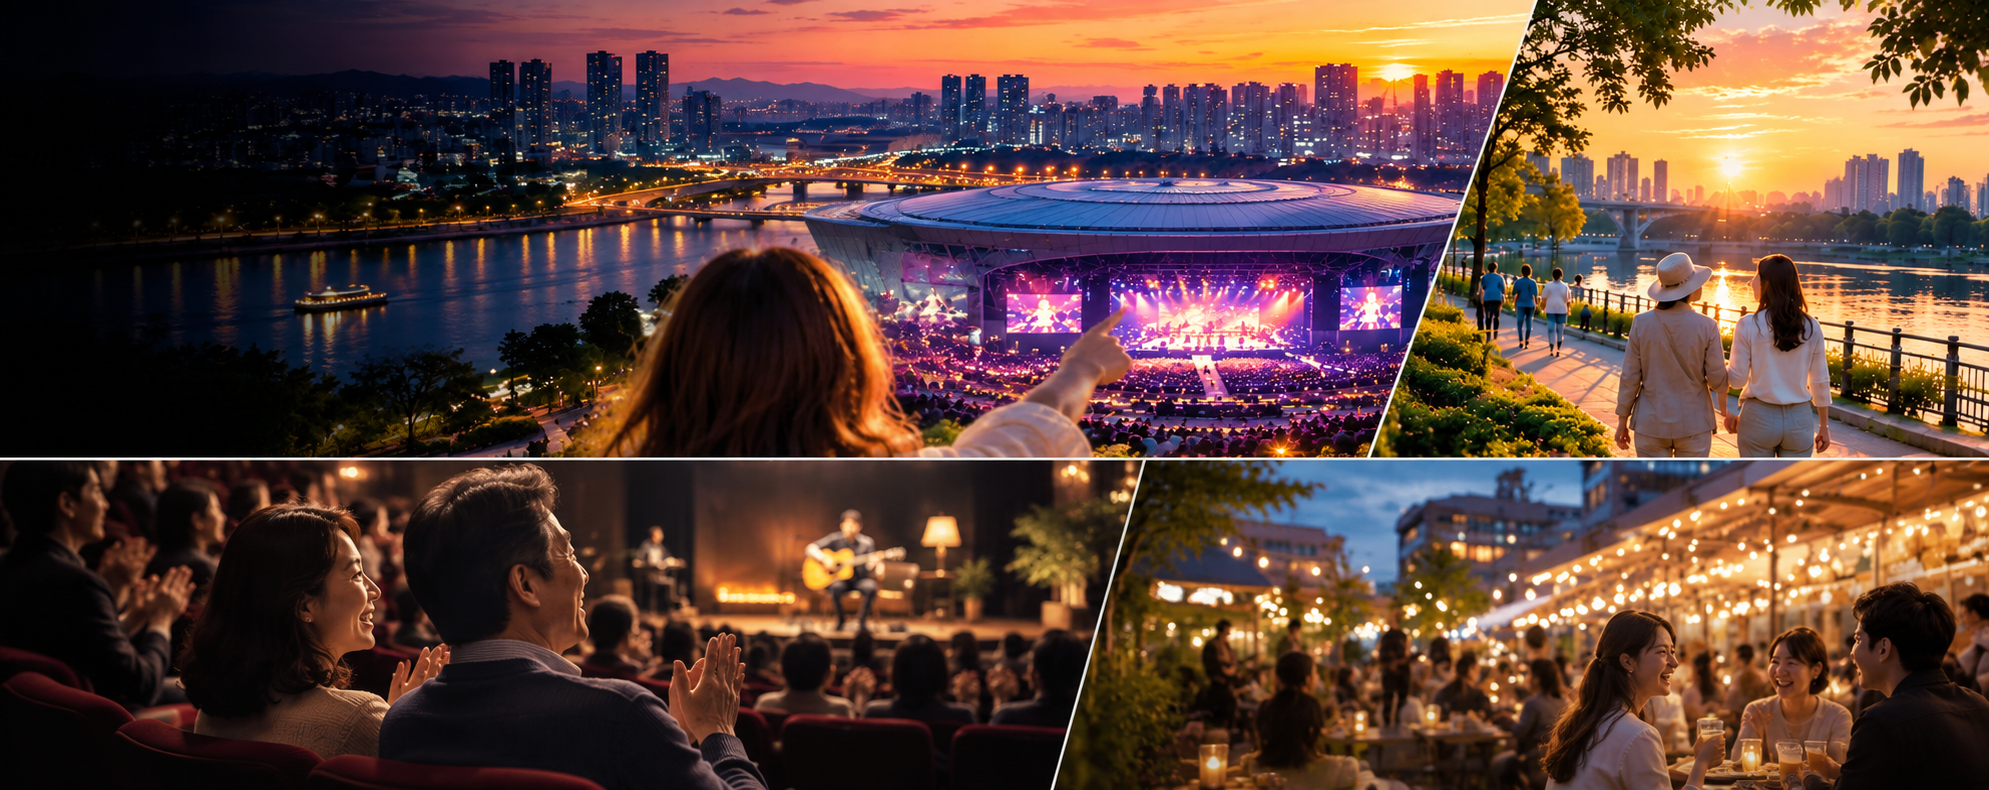
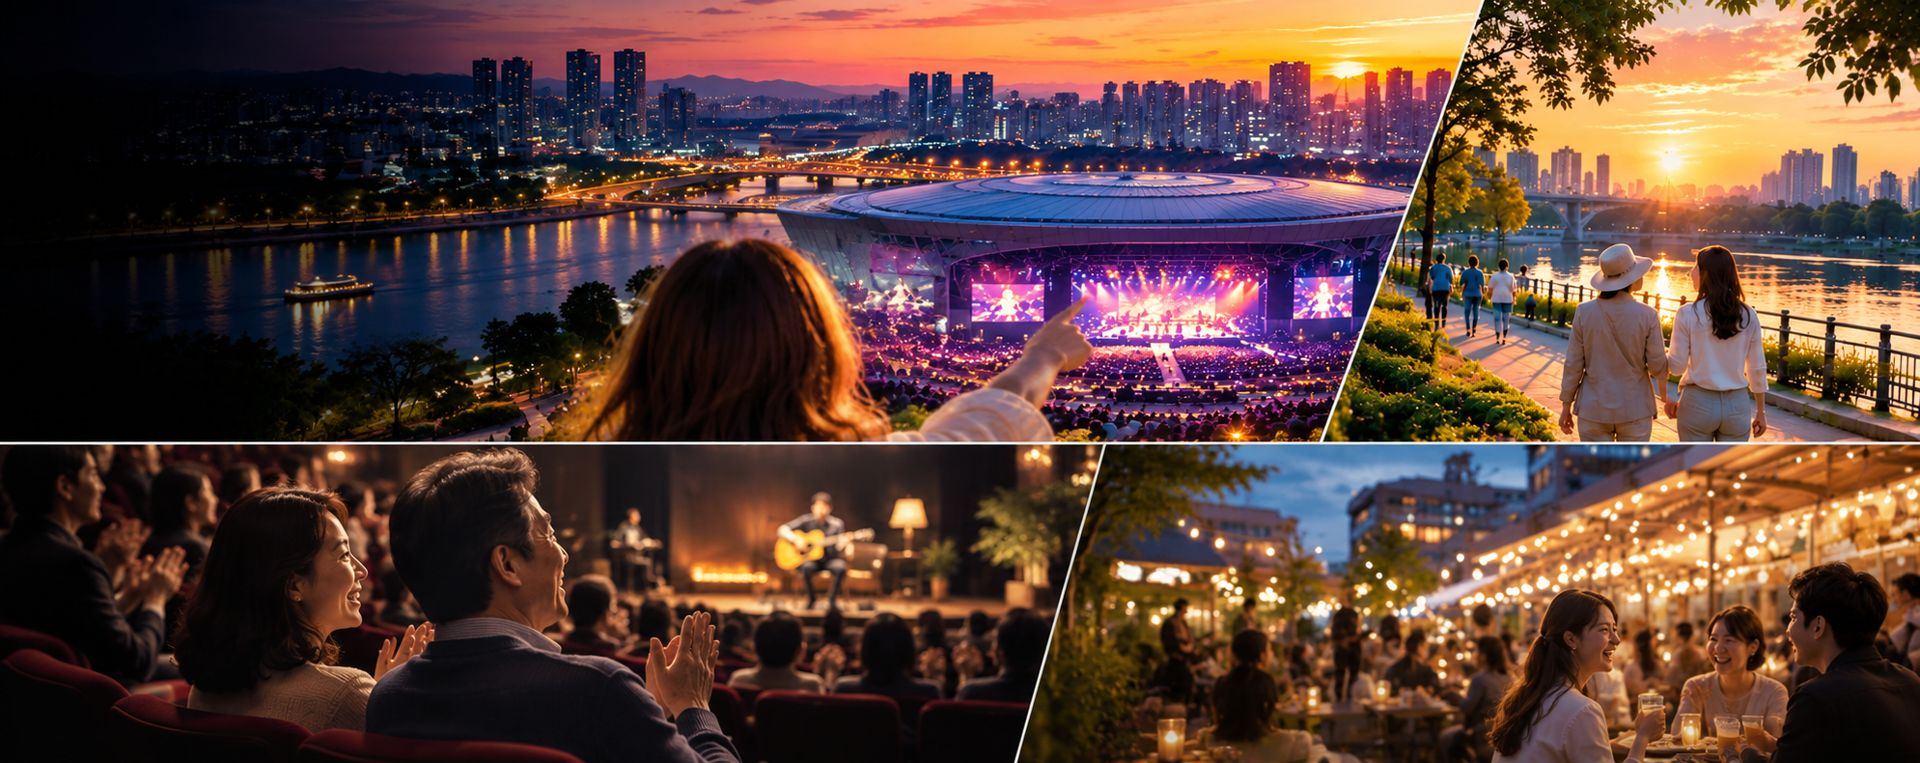
Add files via upload

diff --git a/parents/index.html b/parents/index.html
@@ -88,12 +88,13 @@ h1,.lede,.section-head h2,.section-head p,.program p,.problem-card p,.partner-bo
 .sf-qr{display:none;flex-direction:column;align-items:center;gap:4px;font-size:10px;color:var(--faint)}
 .sf-qr-img{width:72px;height:72px;padding:4px;background:#fff;border-radius:8px;line-height:0}.sf-qr-img img,.sf-qr-img canvas{width:64px!important;height:64px!important}
 @media(min-width:821px){.sf-qr:not([hidden]){display:flex}}
+.hero-bg{position:absolute;inset:0;z-index:0}.hero-bg img{width:100%;height:100%;object-fit:cover;object-position:60% 40%}.hero-bg:after{content:"";position:absolute;inset:0;background:linear-gradient(90deg,rgba(10,10,8,.88) 0%,rgba(10,10,8,.55) 50%,rgba(10,10,8,.15) 100%),linear-gradient(180deg,rgba(10,10,8,.15),rgba(10,10,8,.7))}
 </style>
 </head>
 <body>
 <nav><div class="navrow"><a class="brand" href="/" aria-label="SHOWDAY 메인으로 이동"><span class="display">SHOWDAY</span><small>공연 가는 날, 필요한 모든 것</small></a><div class="nav-links"><a href="/#journey">서비스 소개</a><a href="/50plus/">50+ 공연</a><a class="active" href="#top">부모를 위한 공연</a><a href="/live/">쇼데이 라이브</a><a href="#partner">파트너 안내</a></div><a class="btn btn-amber btn-sm nav-cta" href="/#partner-contact">제휴·사업 문의 ›</a></div></nav>
 <main id="top">
-<section class="hero"><div class="wrap hero-grid"><div><div class="kicker">PARENTS TIME · COMPANION EXPERIENCE</div><h1>아이의 공연 시간,<br><span>부모의 시간도<br>소중하니까.</span></h1><p class="lede">자녀의 공연에 함께 왔지만 관람하지 않는 부모와 보호자. SHOWDAY는 무조건 긴 프로그램을 만드는 대신, 실제 대기 수요에 맞춰 휴식·지역 체류·짧은 문화 프로그램을 선택할 수 있는 시간을 제안합니다.</p><div class="hero-ctas"><a class="btn btn-amber" href="#program">부모 시간 보기 ›</a><a class="btn btn-line" href="#timeline">운영 방식 보기</a></div></div><div class="stage-card"><div class="stage-top">TODAY · PARENTS TIME</div><h3>공연을 기다리는 방법도,<br>한 가지일 필요는 없습니다.</h3><div class="stage-time"><b>OPTION 01</b><span>편안하게 쉬는 Companion Lounge</span></div><div class="stage-time"><b>OPTION 02</b><span>카페 · 식사 · 지역 명소 이용</span></div><div class="stage-time"><b>OPTION 03</b><span>30~60분 소규모 문화 프로그램</span></div><div class="stage-time"><b>OPTION 04</b><span>공연 종료 전 다시 만날 장소 안내</span></div><div class="stage-note">공연별 동행자 수요를 먼저 확인하고, 필요한 서비스부터 작게 운영합니다.</div></div></div></section>
+<section class="hero"><div class="hero-bg"><img src="/assets/hero-parents.jpg" alt="" loading="eager" onerror="this.parentNode.style.display='none'"></div><div class="wrap hero-grid"><div><div class="kicker">PARENTS TIME · COMPANION EXPERIENCE</div><h1>아이의 공연 시간,<br><span>부모의 시간도<br>소중하니까.</span></h1><p class="lede">자녀의 공연에 함께 왔지만 관람하지 않는 부모와 보호자. SHOWDAY는 무조건 긴 프로그램을 만드는 대신, 실제 대기 수요에 맞춰 휴식·지역 체류·짧은 문화 프로그램을 선택할 수 있는 시간을 제안합니다.</p><div class="hero-ctas"><a class="btn btn-amber" href="#program">부모 시간 보기 ›</a><a class="btn btn-line" href="#timeline">운영 방식 보기</a></div></div><div class="stage-card"><div class="stage-top">TODAY · PARENTS TIME</div><h3>공연을 기다리는 방법도,<br>한 가지일 필요는 없습니다.</h3><div class="stage-time"><b>OPTION 01</b><span>편안하게 쉬는 Companion Lounge</span></div><div class="stage-time"><b>OPTION 02</b><span>카페 · 식사 · 지역 명소 이용</span></div><div class="stage-time"><b>OPTION 03</b><span>30~60분 소규모 문화 프로그램</span></div><div class="stage-time"><b>OPTION 04</b><span>공연 종료 전 다시 만날 장소 안내</span></div><div class="stage-note">공연별 동행자 수요를 먼저 확인하고, 필요한 서비스부터 작게 운영합니다.</div></div></div></section>
 <section class="problem"><div class="wrap"><div class="section-head"><div class="eyebrow">WHY SHOWDAY</div><h2>공연장 밖의 동행자도, 공연 생태계의 고객입니다.</h2><p>모든 공연에 부모 수요가 있는 것은 아닙니다. 그래서 SHOWDAY는 청소년·가족 동반 비중이 높은 공연부터 수요를 확인하고 필요한 서비스만 연결합니다.</p></div><div class="problem-grid"><div class="problem-card"><b>지금 · 각자 알아서 기다리는 시간</b><p>공연장 주변 카페를 찾거나 차량에서 기다리고, 종료시간에 맞춰 다시 만나는 장소를 따로 정해야 합니다.</p></div><div class="problem-card solution"><b>SHOWDAY · 선택할 수 있는 부모 시간</b><p>휴식, 식사, 지역 체류, 짧은 문화 프로그램 가운데 필요한 것을 선택하고 공연 종료에 맞춰 자연스럽게 다시 합류합니다.</p></div></div></div></section>
 <section id="program"><div class="wrap"><div class="section-head"><div class="eyebrow">PARENTS TIME</div><h2>부모를 위한 시간은 ‘공연 하나 더’가 아닙니다.</h2><p>대형 공연과 경쟁하는 별도 공연이 아니라, 동행 부모가 실제로 필요로 하는 대기·휴식·지역 체류 서비스를 중심으로 구성합니다.</p></div><div class="program-grid"><article class="program"><div class="num">01</div><h3>COMPANION LOUNGE</h3><p>앉아서 쉬고 충전하며 공연 종료까지 편하게 머물 수 있는 동행자 휴식 공간.</p></article><article class="program"><div class="num">02</div><h3>LOCAL TIME</h3><p>공연장 주변 카페·식사·산책·지역 명소를 대기시간에 맞춰 추천하는 지역 체류 프로그램.</p></article><article class="program"><div class="num">03</div><h3>OPTIONAL PROGRAM</h3><p>공연마다 프로그램을 미리 만들지 않습니다. 부모·보호자의 동행 규모와 관심사를 먼저 확인하고, 수요가 충분할 때 지역의 기존 프로그램·제휴 콘텐츠를 우선 연결합니다. 필요한 경우에만 30~60분 규모의 SHOWDAY 전용 프로그램을 별도로 기획합니다.</p></article><article class="program"><div class="num">04</div><h3>MEET AGAIN</h3><p>공연 종료 예정시간과 혼잡을 고려해 가족이 다시 만날 시간과 장소, 귀가 동선을 안내합니다.</p></article></div></div></section>
 <section class="timeline" id="timeline"><div class="wrap"><div class="section-head"><div class="eyebrow">HOW IT WORKS</div><h2>프로그램을 먼저 만들지 않고, 필요한 시간을 먼저 연결합니다.</h2><p>PARENTS TIME은 프로그램 운영 자체가 목적이 아닙니다. 공연을 보는 사람과 기다리는 사람의 시간을 함께 설계하고, 기존 지역 서비스부터 연결한 뒤 실제 수요가 확인될 때만 선택형 프로그램을 엽니다.</p></div><div class="time-grid"><div class="time-row highlight"><div class="time">STEP 01</div><div><b>동행 수요 확인</b><small>공연을 선택한 이용자에게 부모·보호자 동행 여부, 예상 대기시간과 관심 활동을 확인</small></div></div><div class="time-row"><div class="time">STEP 02</div><div><b>같은 시간의 선택지 제안</b><small>카페 · 식사 · 산책 · 쇼핑 · 전시 · 휴식공간 등 이미 운영 중인 주변 서비스를 우선 연결</small></div></div><div class="time-row highlight"><div class="time">STEP 03</div><div><b>수요가 모이면 프로그램 오픈</b><small>충분한 관심이 확인되면 지역의 기존 프로그램과 제휴하고, 필요한 경우에만 30~60분 소규모 프로그램을 별도 기획</small></div></div><div class="time-row"><div class="time">STEP 04</div><div><b>공연 종료시간에 다시 연결</b><small>공연 종료 예정시간과 만남 장소를 기준으로 가족이 자연스럽게 다시 합류하고 귀가하도록 안내</small></div></div><div class="time-row highlight"><div class="time">STEP 05</div><div><b>검증된 서비스만 확대</b><small>신청률 · 실제 이용률 · 만족도 · 제휴처 반응을 확인해 검증된 서비스와 프로그램만 다른 공연과 공연장으로 확장</small></div></div></div></div></section>

diff --git a/live/index.html b/live/index.html
@@ -50,12 +50,13 @@ footer{padding:30px 0;color:var(--faint);font-size:11.5px}.footer-row{display:fl
 .sf-qr{display:none;flex-direction:column;align-items:center;gap:4px;font-size:10px;color:var(--faint)}
 .sf-qr-img{width:72px;height:72px;padding:4px;background:#fff;border-radius:8px;line-height:0}.sf-qr-img img,.sf-qr-img canvas{width:64px!important;height:64px!important}
 @media(min-width:821px){.sf-qr:not([hidden]){display:flex}}
+.hero-bg{position:absolute;inset:0;z-index:0}.hero-bg img{width:100%;height:100%;object-fit:cover;object-position:60% 40%}.hero-bg:after{content:"";position:absolute;inset:0;background:linear-gradient(90deg,rgba(10,10,8,.88) 0%,rgba(10,10,8,.55) 50%,rgba(10,10,8,.15) 100%),linear-gradient(180deg,rgba(10,10,8,.15),rgba(10,10,8,.7))}
 </style>
 </head>
 <body>
 <nav><div class="navrow"><a class="brand" href="/" aria-label="SHOWDAY 메인으로 이동"><span class="display">SHOWDAY</span><small>공연 가는 날, 필요한 모든 것</small></a><div class="nav-links"><a href="/#journey">서비스 소개</a><a href="/50plus/">50+ 공연</a><a href="/parents/">부모를 위한 공연</a><a class="active" href="#top">쇼데이 라이브</a><a href="/#partner">파트너 안내</a></div><a class="btn btn-amber btn-sm nav-cta" href="/#partner-contact">제휴·사업 문의 ›</a></div></nav>
 <main id="top">
-<section class="hero"><div class="wrap hero-grid"><div><div class="kicker">SHOWDAY LIVE · CITY EXPERIENCE</div><h1>공연이 있는 날,<br><span>도시의 시간이<br>더 길어집니다.</span></h1><p class="lede">SHOWDAY LIVE는 공연장 안의 콘텐츠를 만드는 서비스가 아닙니다. 공연을 보러 온 방문객이 공연 전후에 어디서 먹고, 쉬고, 이동하고, 무엇을 할지 공연 시간과 위치에 맞춰 연결하는 공연일 도시 경험 서비스입니다.</p><div class="hero-ctas"><a class="btn btn-amber" href="#program">공연 당일 흐름 보기 ›</a><a class="btn btn-line" href="#communication">현장 소통 보기</a></div></div><div class="stage-card"><div class="stage-top">BEFORE · STREET · AFTER · LOCAL</div><h3>공연장 안의 콘텐츠가 아니라<br>공연장 밖의 하루를 연결합니다.</h3><div class="stage-time"><b>01</b><span>공연 전 준비와 체류</span></div><div class="stage-time"><b>02</b><span>공연장까지의 이동과 주변 이용</span></div><div class="stage-time"><b>03</b><span>공연 중 동행자의 다른 시간</span></div><div class="stage-time"><b>04</b><span>공연 후 야간 이동과 소비</span></div><div class="stage-note">대형 K-컬처 행사와 경쟁하기보다, 방문객의 이동·체류·지역 소비를 보완하는 역할에 집중합니다.</div></div></div></section>
+<section class="hero"><div class="hero-bg"><img src="/assets/hero-showday.jpg" alt="" loading="eager" onerror="this.parentNode.style.display='none'"></div><div class="wrap hero-grid"><div><div class="kicker">SHOWDAY LIVE · CITY EXPERIENCE</div><h1>공연이 있는 날,<br><span>도시의 시간이<br>더 길어집니다.</span></h1><p class="lede">SHOWDAY LIVE는 공연장 안의 콘텐츠를 만드는 서비스가 아닙니다. 공연을 보러 온 방문객이 공연 전후에 어디서 먹고, 쉬고, 이동하고, 무엇을 할지 공연 시간과 위치에 맞춰 연결하는 공연일 도시 경험 서비스입니다.</p><div class="hero-ctas"><a class="btn btn-amber" href="#program">공연 당일 흐름 보기 ›</a><a class="btn btn-line" href="#communication">현장 소통 보기</a></div></div><div class="stage-card"><div class="stage-top">BEFORE · STREET · AFTER · LOCAL</div><h3>공연장 안의 콘텐츠가 아니라<br>공연장 밖의 하루를 연결합니다.</h3><div class="stage-time"><b>01</b><span>공연 전 준비와 체류</span></div><div class="stage-time"><b>02</b><span>공연장까지의 이동과 주변 이용</span></div><div class="stage-time"><b>03</b><span>공연 중 동행자의 다른 시간</span></div><div class="stage-time"><b>04</b><span>공연 후 야간 이동과 소비</span></div><div class="stage-note">대형 K-컬처 행사와 경쟁하기보다, 방문객의 이동·체류·지역 소비를 보완하는 역할에 집중합니다.</div></div></div></section>
 <section class="light-section" id="communication"><div class="wrap"><div class="section-head"><div class="eyebrow">CLEAR POSITION</div><h2>팬덤 행사는 ‘행사 주최자’가,<br>공연일 생활 서비스는 SHOWDAY가.</h2><p>SHOWDAY는 팬덤 시상식이나 대형 팬 이벤트를 직접 운영하는 사업보다, 방문객이 실제로 겪는 공연장 밖의 불편과 지역 체류를 해결하는 데 집중합니다.</p></div><div class="problem-grid"><div class="problem-card"><b>하지 않는 것</b><p>팬덤 시상식, 대형 팬 페스티벌, 아티스트 공식 팬클럽 운영, 무단 공연 중계.</p></div><div class="problem-card solution"><b>집중하는 것</b><p>공연 전후 먹거리, 짐보관, 휴식, 거리 정보, 지역상권, 야간 이동, 귀가 안내.</p></div></div></div></section>
 <section id="program"><div class="wrap"><div class="section-head"><div class="eyebrow">PERFORMANCE DAY JOURNEY</div><h2>공연 전부터 귀가까지,<br>하루의 흐름을 연결합니다.</h2><p>공연 시간을 기준으로 이동·체류·주변 이용·동행자의 시간·귀가에 필요한 정보를 한 흐름으로 구성합니다.</p></div><div class="program-grid"><article class="program"><div class="num">01</div><h3>BEFORE</h3><p>공연시간, 교통, 주차, 게이트, 준비물과 도착 전에 필요한 정보를 한 화면에 모읍니다.</p></article><article class="program"><div class="num">02</div><h3>STREET</h3><p>공연장 주변의 식당·카페·짐보관·편의점·휴식 공간을 공연 시간과 위치에 맞춰 찾습니다.</p></article><article class="program"><div class="num">03</div><h3>TOGETHER</h3><p>공연을 보지 않는 부모·보호자 등 동행자가 같은 시간에 이용할 주변 활동과 머물 곳을 연결합니다.</p></article><article class="program"><div class="num">04</div><h3>AFTER</h3><p>공연 종료 후 대중교통·택시·늦게까지 이용 가능한 매장과 귀가·재합류 동선을 이어줍니다.</p></article></div></div></section>
 <section class="dark-section"><div class="wrap"><div class="section-head"><div class="eyebrow">BUSINESS MODEL</div><h2>방문객의 ‘체류’가<br>지역의 매출로 이어지게 합니다.</h2><p>SHOWDAY LIVE의 수익은 팬 이벤트 티켓보다 지역 파트너 연결과 공연일 서비스에서 찾습니다.</p></div><div class="program-grid"><article class="program"><div class="num">A</div><h3>LOCAL PARTNER</h3><p>음식점, 카페, 짐보관, 숙박, 상점의 예약·쿠폰·추천 제휴.</p></article><article class="program"><div class="num">B</div><h3>POP-UP &amp; FOOD</h3><p>공연일 수요에 맞춘 팝업, K-라이스 디저트, 픽업형 먹거리 등 공연 전후 소비를 연결합니다.</p></article><article class="program"><div class="num">C</div><h3>B2B SERVICE</h3><p>공연기획사와 시설에 동선·동행자·지역안내 서비스를 공연별 패키지로 제안합니다.</p></article><article class="program"><div class="num">D</div><h3>PUBLIC PARTNERSHIP</h3><p>지자체와 체류시간, 야간경제, 지역상권 활성화를 위한 공연일 생활 서비스로 협력합니다.</p></article></div></div></section>
